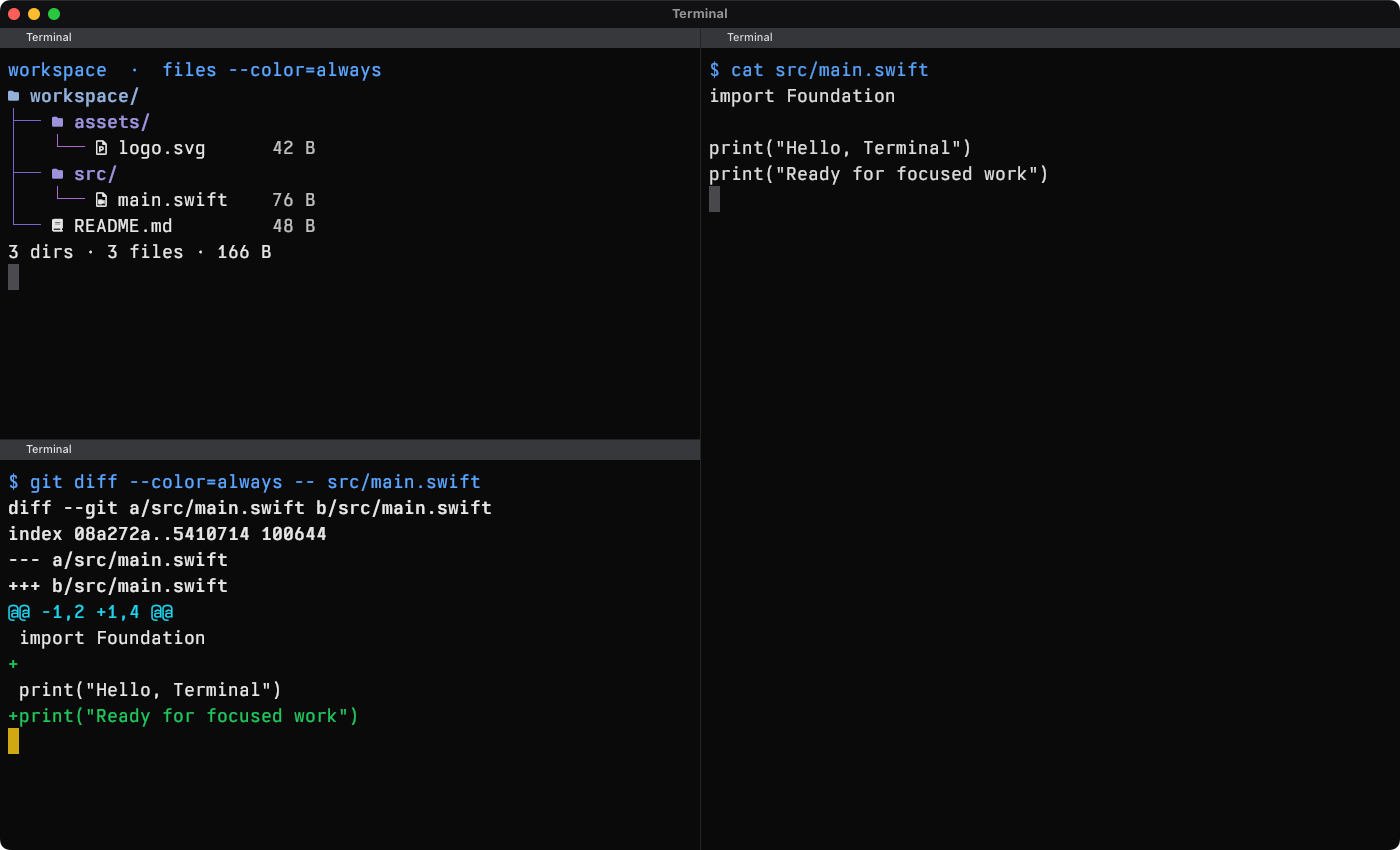
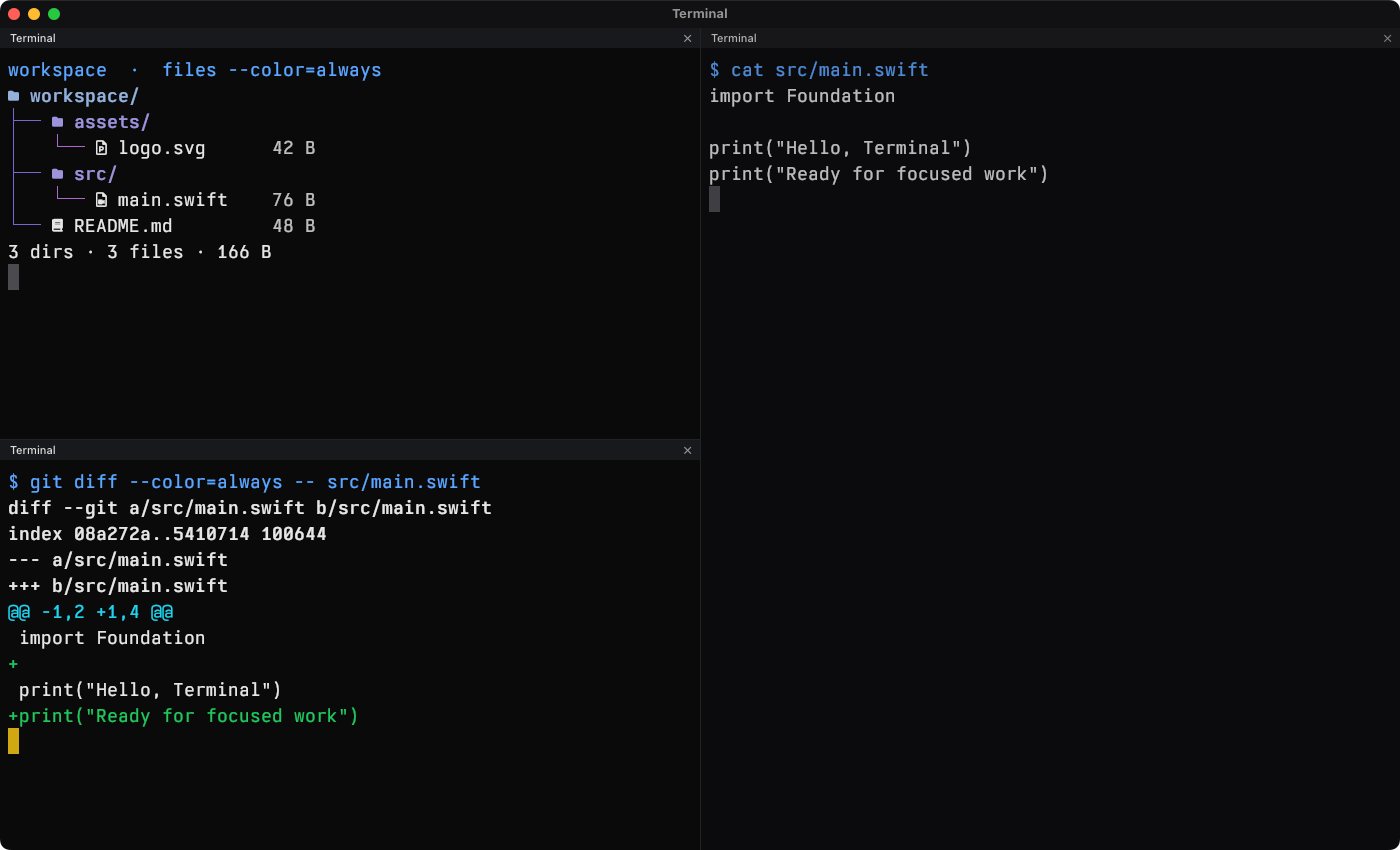
Keep git from paging in the gallery fixture and refresh the screenshots
git diff wrote to a terminal, so it started a pager that waited for a key
and the overview pane never reported ready. The two README screenshots are
recaptured from the current app, which now shows pane headers.

diff --git a/tools/Dev/Gallery.swift b/tools/Dev/Gallery.swift
@@ -208,7 +208,8 @@ enum Gallery {
     let files = try required("TERMINAL_GALLERY_FILES")
     let scenario = environment["TERMINAL_GALLERY_SCENARIO"] ?? "overview"
     let listing = [files, "--color=always", "--no-git", "-L", "2", cwd]
-    let diff = ["/usr/bin/git", "diff", "--color=always", "--", "src/main.swift"]
+    // Without `--no-pager` git hands a terminal's output to a pager, which waits for a key.
+    let diff = ["/usr/bin/git", "--no-pager", "diff", "--color=always", "--", "src/main.swift"]
     func write(_ text: String) { try? writeAll(STDOUT_FILENO, Data(text.utf8)) }
     func section(_ title: String) { write("\u{1B}[38;2;92;166;255m\(title)\u{1B}[0m\r\n") }
     /// Tells the runner this pane has drawn, and keeps the pane open.
